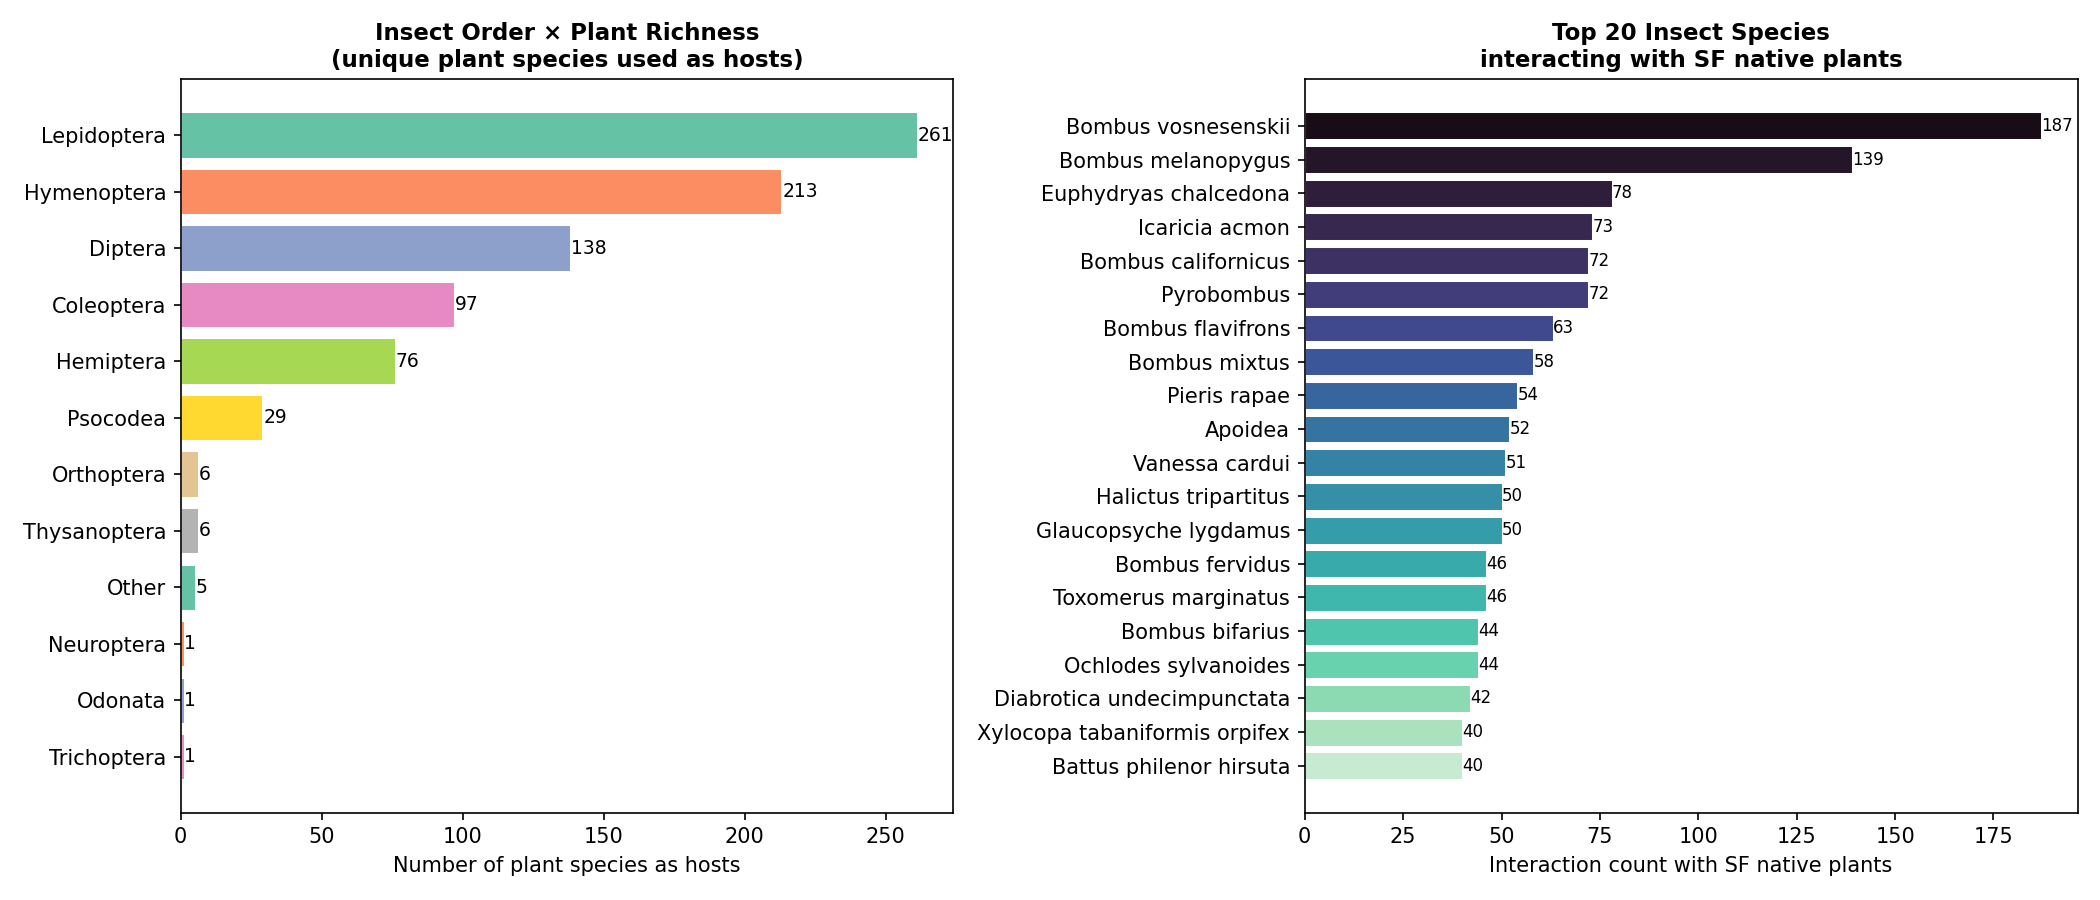
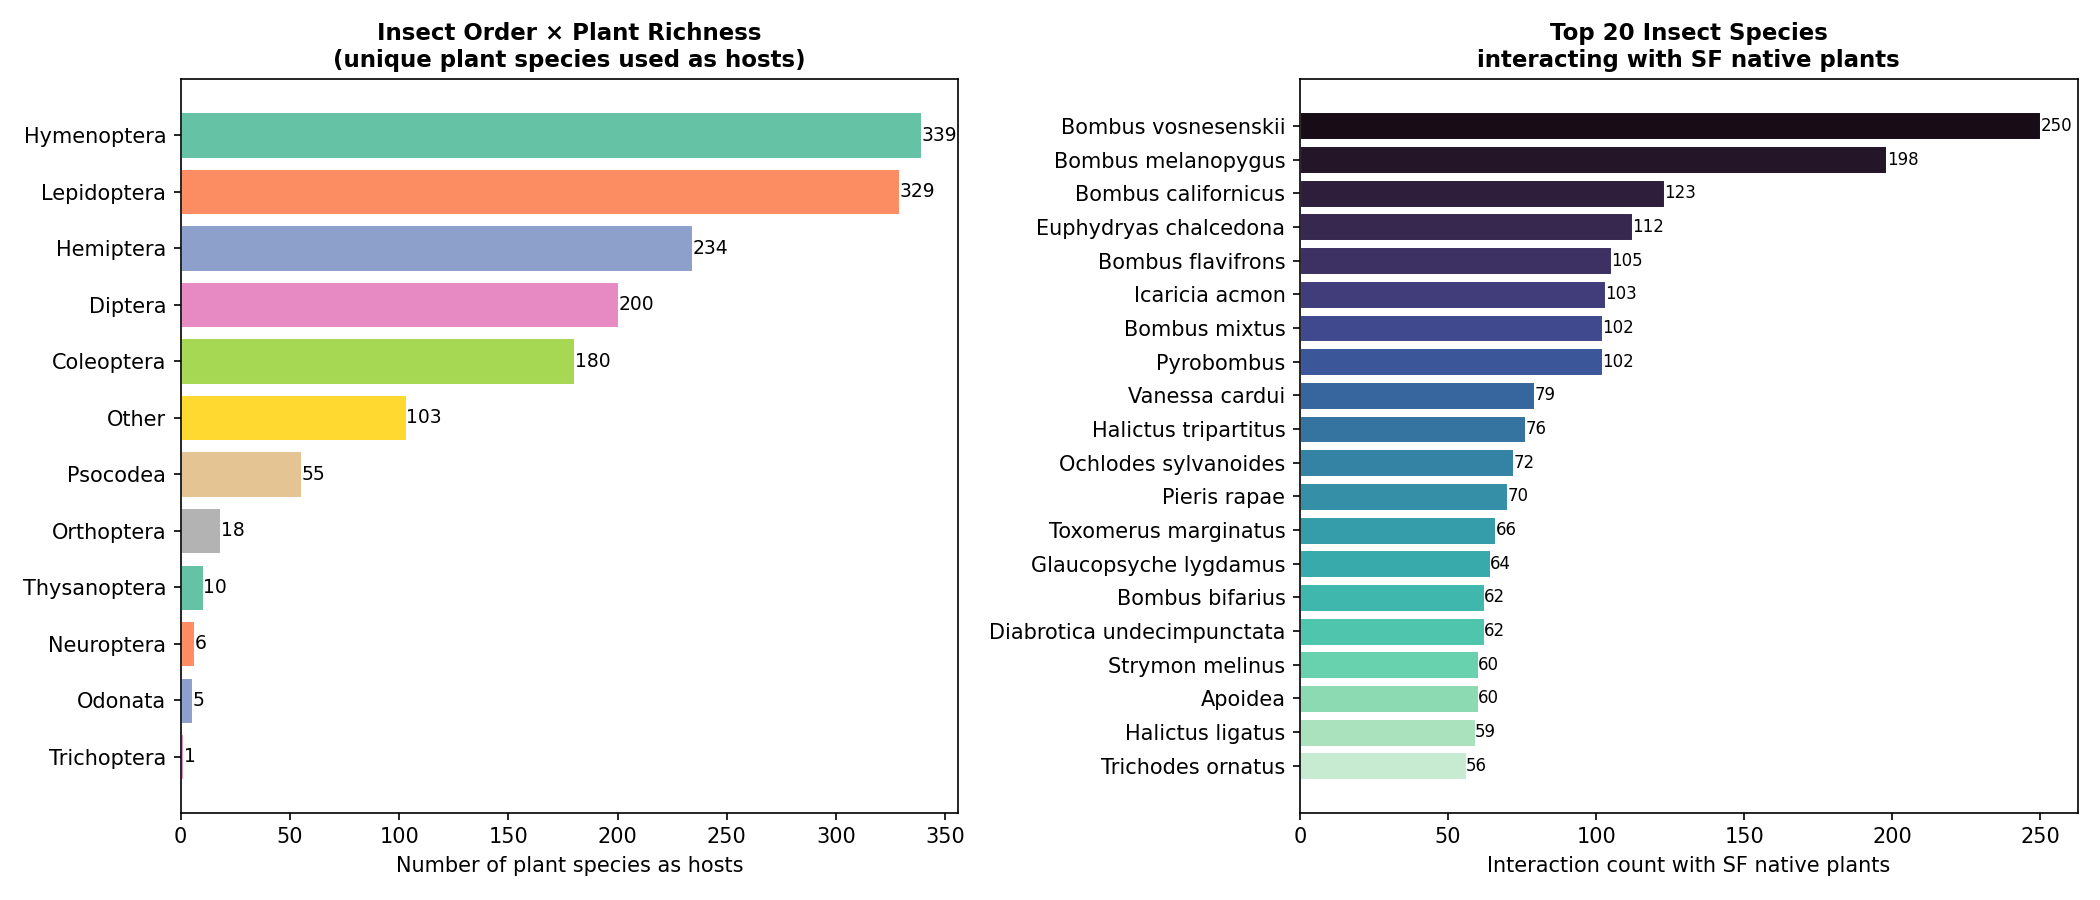
Fix kingdom classifier to catch family/order-level taxon paths
GloBI sources vary in how deep their taxon paths start. Some paths begin
at insect family level (Cicadellidae, Tropiduchidae, Megachilidae) or plant
order level (Fagales, Poales) rather than class/phylum, causing those taxa
to fall through to 'Other' and get filtered from the visualization.

- taxon_kingdom(): add ~30 insect families/sections (leafhoppers, mason bees,
  hoverflies, tortrix moths, skippers, etc.) and 15 plant orders (Fagales,
  Poales, Lamiales, Asterales, etc.) and fungal genera (Puccinia, Podosphaera,
  Exobasidium, etc.)
- is_plant(): extend with same plant order/class keywords (Fagales, Poales,
  Equisetopsida, Pteridobiotina, etc.) so plant↔plant co-occurrence filter
  correctly removes order-rooted plant paths
- Apply same fixes to viz_examples.py

Effect: Quercus agrifolia now appears in the network with degree=10
(7 insect, 3 fungal connections). Network: 923 nodes, 6318 edges.

https://claude.ai/code/session_01AXjvKhmSgVRLjYWUQLx3JS

diff --git a/insect-web/analyze.py b/insect-web/analyze.py
@@ -50,16 +50,114 @@ def taxon_kingdom(path: str) -> str:
     if not path:
         return "Other"
     for group, kw in [
+        # Animals — check before plants so insect orders/families don't fall through
         ("Insecta",   "Insecta"),
+        # Insect orders
+        ("Insecta",   "Hemiptera"),
+        ("Insecta",   "Hymenoptera"),
+        ("Insecta",   "Lepidoptera"),
+        ("Insecta",   "Coleoptera"),
+        ("Insecta",   "Diptera"),
+        ("Insecta",   "Orthoptera"),
+        ("Insecta",   "Thysanoptera"),
+        ("Insecta",   "Neuroptera"),
+        ("Insecta",   "Trichoptera"),
+        ("Insecta",   "Odonata"),
+        ("Insecta",   "Blattodea"),
+        ("Insecta",   "Psocodea"),
+        # Insect superfamilies / series
+        ("Insecta",   "Noctuoidea"),
+        ("Insecta",   "Geometroidea"),
+        ("Insecta",   "Bombycoidea"),
+        ("Insecta",   "Papilionoidea"),
+        ("Insecta",   "Aschiza"),       # Diptera section (hoverflies etc.)
+        ("Insecta",   "Schizophora"),   # Diptera section
+        # Insect families — paths from some GloBI sources start at family level
+        ("Insecta",   "Cicadellidae"),  # leafhoppers
+        ("Insecta",   "Tropiduchidae"), # planthoppers
+        ("Insecta",   "Miridae"),       # plant bugs
+        ("Insecta",   "Aphididae"),
+        ("Insecta",   "Membracidae"),   # treehoppers
+        ("Insecta",   "Cercopidae"),    # spittlebugs
+        ("Insecta",   "Psyllidae"),
+        ("Insecta",   "Tingidae"),
+        ("Insecta",   "Lygaeidae"),
+        ("Insecta",   "Pentatomidae"),
+        ("Insecta",   "Megachilidae"),  # mason/leafcutter bees
+        ("Insecta",   "Apidae"),        # honey/bumble bees
+        ("Insecta",   "Vespidae"),
+        ("Insecta",   "Eumeninae"),     # mason wasps
+        ("Insecta",   "Ichneumonidae"),
+        ("Insecta",   "Braconidae"),
+        ("Insecta",   "Formicidae"),    # ants
+        ("Insecta",   "Tortricidae"),   # tortrix moths
+        ("Insecta",   "Noctuidae"),
+        ("Insecta",   "Geometridae"),
+        ("Insecta",   "Hesperiidae"),   # skippers
+        ("Insecta",   "Pterophoridae"), # plume moths
+        ("Insecta",   "Nymphalidae"),
+        ("Insecta",   "Lycaenidae"),
+        ("Insecta",   "Pieridae"),
+        ("Insecta",   "Papilionidae"),
+        ("Insecta",   "Saturniidae"),
+        ("Insecta",   "Sphingidae"),
+        ("Insecta",   "Syrphidae"),     # hoverflies
+        ("Insecta",   "Tachinidae"),
+        ("Insecta",   "Cerambycidae"),
+        ("Insecta",   "Curculionidae"),
+        ("Insecta",   "Chrysomelidae"),
+        ("Insecta",   "Coccinellidae"),
+        ("Insecta",   "Buprestidae"),
+        ("Insecta",   "Polyommatini"),  # blues tribe
         ("Arachnida", "Arachnida"),
         ("Aves",      "Aves"),
+        ("Aves",      "Australavis"),
         ("Mammalia",  "Mammalia"),
+        ("Mammalia",  "Theria"),
+        # Fungi — before Plantae; also catch genus-level paths
         ("Fungi",     "Fungi"),
-        ("Nematoda",  "Nematoda"),
-        ("Bacteria",  "Bacteria"),
+        ("Fungi",     "Ascomycota"),
+        ("Fungi",     "Basidiomycota"),
+        ("Fungi",     "Puccinia"),      # rust fungi
+        ("Fungi",     "Coleosporium"),
+        ("Fungi",     "Exobasidium"),
+        ("Fungi",     "Podosphaera"),   # powdery mildew
+        ("Fungi",     "Erysiphe"),
+        ("Fungi",     "Ramularia"),
+        ("Fungi",     "Harknessia"),
+        ("Fungi",     "Stamnaria"),
+        ("Fungi",     "Otidea"),
+        ("Fungi",     "Ovularia"),
+        ("Fungi",     "Graphyllium"),
+        # Plants — multiple path root conventions used by different GloBI sources
         ("Plantae",   "Plantae"),
         ("Plantae",   "Angiosperms"),
         ("Plantae",   "Viridiplantae"),
+        ("Plantae",   "Tracheophyta"),
+        ("Plantae",   "Spermatophytes"),
+        ("Plantae",   "Gymnosperms"),
+        ("Plantae",   "Bryophyta"),
+        ("Plantae",   "Equisetopsida"), # APG land-plant class
+        ("Plantae",   "Pteridophytes"),
+        ("Plantae",   "Pteridobiotina"),
+        # Plant orders whose paths sometimes root here without higher ranks
+        ("Plantae",   "Fagales"),       # oaks, beeches, birches
+        ("Plantae",   "Poales"),        # grasses, sedges
+        ("Plantae",   "Caryophyllales"),
+        ("Plantae",   "Lamiales"),
+        ("Plantae",   "Asterales"),
+        ("Plantae",   "Rosales"),
+        ("Plantae",   "Fabales"),
+        ("Plantae",   "Malpighiales"),
+        ("Plantae",   "Ericales"),
+        ("Plantae",   "Solanales"),
+        ("Plantae",   "Apiales"),
+        ("Plantae",   "Ranunculales"),
+        ("Plantae",   "Myrtales"),
+        ("Plantae",   "Malvales"),
+        ("Plantae",   "lamiids"),
+        ("Nematoda",  "Nematoda"),
+        ("Bacteria",  "Bacteria"),
     ]:
         if kw in path:
             return group
@@ -78,12 +176,18 @@ def is_animal(path: str) -> bool:
     return taxon_kingdom(path) in ("Insecta", "Arachnida", "Aves", "Mammalia")
 
 def is_plant(path: str) -> bool:
-    return any(k in (path or "") for k in
-               ("Plantae", "Angiosperms", "Viridiplantae", "Tracheophyta", "Gymnosperms", "Bryophyta"))
+    return any(k in (path or "") for k in (
+        "Plantae", "Angiosperms", "Viridiplantae", "Tracheophyta", "Spermatophytes",
+        "Gymnosperms", "Bryophyta", "Equisetopsida", "Pteridophytes", "Pteridobiotina",
+        "Fagales", "Poales", "Caryophyllales", "Lamiales", "Asterales", "Rosales",
+        "Fabales", "Malpighiales", "Ericales", "Solanales", "Apiales",
+        "Ranunculales", "Myrtales", "Malvales", "lamiids",
+    ))
 
 PARASITIC_TYPES = {"parasiteOf", "hasParasite", "hostOf", "hasHost"}
 
-# Vague / co-occurrence types with no specific ecological meaning
+# Vague / co-occurrence types — only drop when BOTH endpoints are plants
+# (plant↔plant co-occurrence = noise; plant↔insect/fungi co-occurrence = signal)
 NOISE_TYPES = {
     "interactsWith", "coOccursWith", "adjacentTo",
     "visits", "visitedBy",
@@ -124,7 +228,7 @@ for r in records:
 # drop rows missing both names
 rows = [r for r in rows if r["src_name"] or r["tgt_name"]]
 
-# drop non-parasitic plant↔plant interactions
+# drop plant↔plant interactions unless they are parasitic
 before = len(rows)
 rows = [
     r for r in rows
@@ -133,9 +237,14 @@ rows = [
 ]
 pp_removed = before - len(rows)
 
-# drop all globally vague / co-occurrence interaction types
+# drop vague/co-occurrence types ONLY when both endpoints are plants
+# (non-plant pairs keep interactsWith etc. — they carry real co-occurrence signal)
 before = len(rows)
-rows = [r for r in rows if r["itype"] not in NOISE_TYPES]
+rows = [
+    r for r in rows
+    if not (r["itype"] in NOISE_TYPES
+            and is_plant(r["src_path"]) and is_plant(r["tgt_path"]))
+]
 noise_removed = before - len(rows)
 
 # drop interactions where either endpoint is a confirmed non-native species

diff --git a/insect-web/viz_examples.py b/insect-web/viz_examples.py
@@ -37,14 +37,60 @@ MIRROR   = {'hasHost':'hostOf','eatenBy':'eats','pollinatedBy':'pollinates',
 MIN_SF_OBS = 10
 MIN_DEGREE = 5
 
-def is_plant(p): return any(k in (p or '') for k in
-    ('Plantae','Angiosperms','Viridiplantae','Tracheophyta','Gymnosperms','Bryophyta'))
+def is_plant(p): return any(k in (p or '') for k in (
+    'Plantae','Angiosperms','Viridiplantae','Tracheophyta','Spermatophytes',
+    'Gymnosperms','Bryophyta','Equisetopsida','Pteridophytes','Pteridobiotina',
+    'Fagales','Poales','Caryophyllales','Lamiales','Asterales','Rosales',
+    'Fabales','Malpighiales','Ericales','Solanales','Apiales',
+    'Ranunculales','Myrtales','Malvales','lamiids',
+))
 
 def kingdom(p):
-    for k,kw in [('Insecta','Insecta'),('Plantae','Angiosperms'),('Plantae','Viridiplantae'),
-                 ('Plantae','Tracheophyta'),('Aves','Aves'),('Mammalia','Mammalia'),
-                 ('Arachnida','Arachnida'),('Fungi','Fungi')]:
-        if kw in (p or ''): return k
+    p = p or ''
+    for k,kw in [
+        ('Insecta','Insecta'),
+        ('Insecta','Hemiptera'),('Insecta','Hymenoptera'),
+        ('Insecta','Lepidoptera'),('Insecta','Coleoptera'),('Insecta','Diptera'),
+        ('Insecta','Orthoptera'),('Insecta','Thysanoptera'),('Insecta','Neuroptera'),
+        ('Insecta','Trichoptera'),('Insecta','Odonata'),('Insecta','Blattodea'),
+        ('Insecta','Noctuoidea'),('Insecta','Geometroidea'),('Insecta','Bombycoidea'),
+        ('Insecta','Papilionoidea'),
+        ('Insecta','Aschiza'),('Insecta','Schizophora'),
+        ('Insecta','Cicadellidae'),('Insecta','Tropiduchidae'),('Insecta','Miridae'),
+        ('Insecta','Aphididae'),('Insecta','Membracidae'),('Insecta','Cercopidae'),
+        ('Insecta','Psyllidae'),('Insecta','Tingidae'),('Insecta','Lygaeidae'),
+        ('Insecta','Pentatomidae'),
+        ('Insecta','Megachilidae'),('Insecta','Apidae'),('Insecta','Vespidae'),
+        ('Insecta','Eumeninae'),('Insecta','Ichneumonidae'),('Insecta','Braconidae'),
+        ('Insecta','Formicidae'),
+        ('Insecta','Tortricidae'),('Insecta','Noctuidae'),('Insecta','Geometridae'),
+        ('Insecta','Hesperiidae'),('Insecta','Pterophoridae'),('Insecta','Nymphalidae'),
+        ('Insecta','Lycaenidae'),('Insecta','Pieridae'),('Insecta','Papilionidae'),
+        ('Insecta','Saturniidae'),('Insecta','Sphingidae'),
+        ('Insecta','Syrphidae'),('Insecta','Tachinidae'),
+        ('Insecta','Cerambycidae'),('Insecta','Curculionidae'),('Insecta','Chrysomelidae'),
+        ('Insecta','Coccinellidae'),('Insecta','Buprestidae'),
+        ('Insecta','Polyommatini'),
+        ('Arachnida','Arachnida'),
+        ('Aves','Aves'),('Aves','Australavis'),
+        ('Mammalia','Mammalia'),('Mammalia','Theria'),
+        ('Fungi','Fungi'),('Fungi','Ascomycota'),('Fungi','Basidiomycota'),
+        ('Fungi','Puccinia'),('Fungi','Coleosporium'),('Fungi','Exobasidium'),
+        ('Fungi','Podosphaera'),('Fungi','Erysiphe'),('Fungi','Ramularia'),
+        ('Fungi','Harknessia'),('Fungi','Stamnaria'),('Fungi','Otidea'),
+        ('Fungi','Ovularia'),('Fungi','Graphyllium'),
+        ('Plantae','Plantae'),('Plantae','Angiosperms'),('Plantae','Viridiplantae'),
+        ('Plantae','Tracheophyta'),('Plantae','Spermatophytes'),('Plantae','Gymnosperms'),
+        ('Plantae','Bryophyta'),('Plantae','Equisetopsida'),
+        ('Plantae','Pteridophytes'),('Plantae','Pteridobiotina'),
+        ('Plantae','Fagales'),('Plantae','Poales'),('Plantae','Caryophyllales'),
+        ('Plantae','Lamiales'),('Plantae','Asterales'),('Plantae','Rosales'),
+        ('Plantae','Fabales'),('Plantae','Malpighiales'),('Plantae','Ericales'),
+        ('Plantae','Solanales'),('Plantae','Apiales'),('Plantae','Ranunculales'),
+        ('Plantae','Myrtales'),('Plantae','Malvales'),('Plantae','lamiids'),
+        ('Nematoda','Nematoda'),('Bacteria','Bacteria'),
+    ]:
+        if kw in p: return k
     return 'Other'
 
 path_of = {}
@@ -60,7 +106,7 @@ for r in raw + araw:
     tn = (r.get('target_taxon_name') or '').strip()
     if sn: path_of[sn] = sp
     if tn: path_of[tn] = tp
-    if itype in NOISE: continue
+    if itype in NOISE and is_plant(sp) and is_plant(tp): continue
     if is_plant(sp) and is_plant(tp) and itype not in PARASITIC: continue
     if sn in EXCLUDE or tn in EXCLUDE: continue
     if sn in sf_natives and sn not in sf_pass: continue
